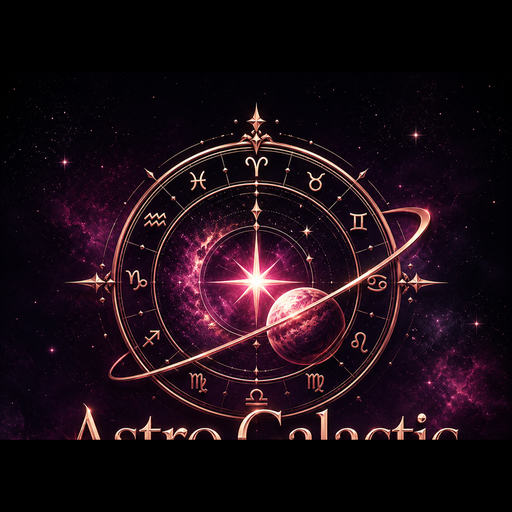
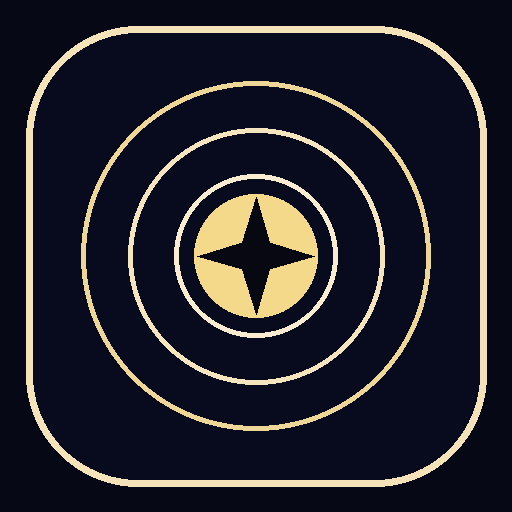
Add files via upload

diff --git a/index.html b/index.html
@@ -1,237 +1,36 @@
-<!DOCTYPE html>
+<!doctype html>
 <html lang="fr">
 <head>
 <meta charset="UTF-8">
 <meta name="viewport" content="width=device-width, initial-scale=1, viewport-fit=cover">
+<meta name="theme-color" content="#080818">
+<meta name="apple-mobile-web-app-capable" content="yes">
+<meta name="apple-mobile-web-app-status-bar-style" content="black-translucent">
 <title>Astro Galactic</title>
-<meta name="theme-color" content="#05070d">
+<meta name="description" content="Astro Galactic — horoscope quotidien, thème astral, compatibilité, numérologie et cristaux.">
 <link rel="manifest" href="/manifest.json">
-<link rel="apple-touch-icon" href="/icons/icon-192.png">
+<link rel="apple-touch-icon" href="/apple-touch-icon.png">
+<link rel="icon" href="/icon-192.png">
 <style>
-  :root{
-    --gold-bright:#f3c969;
-    --gold:#d4af37;
-    --gold-deep:#a5791b;
-    --night:#05070d;
-    --night-mid:#0d1220;
-    --night-soft:#141c30;
-    --emerald:#1f5f52;
-    --electric:#2f8fd1;
-    --text:#f5ecd2;
-    --text-dim:#9a8f72;
-  }
-  *{box-sizing:border-box;margin:0;padding:0;-webkit-tap-highlight-color:transparent;}
-  html,body{height:100%;}
-  body{
-    font-family:'Segoe UI',system-ui,-apple-system,sans-serif;
-    background:radial-gradient(ellipse at 50% 15%, var(--night-soft) 0%, var(--night-mid) 45%, var(--night) 100%);
-    color:var(--text);
-    min-height:100vh;
-    overflow-x:hidden;
-    position:relative;
-  }
-  body::before{
-    content:'';
-    position:fixed;inset:0;
-    background-image:
-      radial-gradient(1.5px 1.5px at 15% 20%, rgba(243,201,105,0.5), transparent),
-      radial-gradient(1px 1px at 80% 12%, rgba(243,201,105,0.4), transparent),
-      radial-gradient(1.5px 1.5px at 65% 75%, rgba(243,201,105,0.4), transparent),
-      radial-gradient(1px 1px at 25% 85%, rgba(243,201,105,0.3), transparent),
-      radial-gradient(1px 1px at 90% 55%, rgba(47,143,209,0.3), transparent);
-    pointer-events:none;z-index:0;
-  }
-  .screen{position:relative;z-index:1;min-height:100vh;display:flex;flex-direction:column;}
-  .hidden{display:none !important;}
-
-  /* ===== PORTAIL ===== */
-  #portalScreen{align-items:center;padding:34px 22px 30px;text-align:center;}
-
-  .brand-row{display:flex;align-items:center;justify-content:center;gap:6px;}
-  .brand{font-family:Georgia,'Times New Roman',serif;font-size:1.9rem;color:var(--gold-bright);letter-spacing:0.5px;
-    text-shadow:0 0 18px rgba(243,201,105,0.35);}
-  .crown-icon{font-size:1.1rem;transform:translateY(-10px);}
-
-  .ornament{display:flex;align-items:center;justify-content:center;gap:8px;margin:8px auto 10px;width:70%;max-width:200px;}
-  .ornament::before,.ornament::after{content:'';flex:1;height:1px;background:linear-gradient(90deg,transparent,var(--gold-deep));}
-  .ornament::after{background:linear-gradient(90deg,var(--gold-deep),transparent);}
-  .ornament span{width:5px;height:5px;border:1px solid var(--gold);transform:rotate(45deg);}
-
-  .brand-sub{color:var(--text-dim);font-size:0.85rem;margin-bottom:20px;}
-
-  .wheel-wrap{position:relative;width:280px;height:280px;margin:10px auto 22px;}
-  .wheel-wrap svg{width:100%;height:100%;overflow:visible;}
-  .zodiac-symbol{font-size:15px;fill:var(--gold-bright);font-family:Georgia,serif;text-anchor:middle;dominant-baseline:middle;}
-  .wheel-ring{fill:none;stroke:var(--gold-deep);}
-  .wheel-spoke{stroke:rgba(212,175,55,0.35);stroke-width:1;}
-  .wheel-glow{filter:drop-shadow(0 0 6px rgba(243,201,105,0.6));}
-
-  .lion-badge{
-    position:absolute;top:-18px;left:50%;transform:translateX(-50%);
-    width:56px;height:56px;border-radius:50%;
-    background:radial-gradient(circle,var(--night-soft),var(--night));
-    border:1.5px solid var(--gold);
-    display:flex;align-items:center;justify-content:center;
-    box-shadow:0 0 16px rgba(243,201,105,0.4);
-  }
-  .lion-badge .lion-emoji{font-size:1.6rem;}
-  .lion-badge .crown-mini{position:absolute;top:-11px;font-size:0.9rem;}
-
-  .portal-cta{width:100%;max-width:300px;}
-  .btn-pill{
-    position:relative;width:100%;padding:15px 20px;border:1.5px solid var(--gold);border-radius:40px;
-    background:linear-gradient(90deg,var(--gold-deep),var(--gold-bright));
-    color:var(--night);font-weight:700;font-size:1.02rem;font-family:Georgia,serif;
-    cursor:pointer;box-shadow:0 4px 20px rgba(212,175,55,0.35);
-  }
-  .btn-pill:active{transform:scale(0.97);}
-  .link-secondary{
-    display:inline-block;margin-top:16px;background:none;border:none;
-    color:var(--gold-bright);font-size:0.88rem;text-decoration:underline;cursor:pointer;
-  }
-
-  .portal-form{width:100%;max-width:300px;display:none;text-align:left;margin-top:6px;}
-  .portal-form.active{display:block;}
-  .portal-form label{display:block;font-size:0.8rem;color:var(--gold-bright);margin-bottom:6px;margin-top:14px;font-weight:600;}
-  .portal-form label:first-child{margin-top:0;}
-  input[type="date"],input[type="time"],input[type="text"]{
-    width:100%;padding:12px 14px;border-radius:10px;
-    border:1px solid rgba(212,175,55,0.35);
-    background:rgba(5,7,13,0.7);color:var(--text);font-size:1rem;
-  }
-  input::-webkit-calendar-picker-indicator{filter:invert(1) sepia(1) saturate(3) hue-rotate(10deg);}
-  .optional-tag{color:var(--text-dim);font-weight:400;font-size:0.72rem;}
-
-  /* rangée d'icônes de fonctionnalités */
-  .feature-row{display:flex;justify-content:center;gap:14px;margin-top:28px;flex-wrap:wrap;}
-  .feature-item{display:flex;flex-direction:column;align-items:center;gap:6px;width:64px;}
-  .feature-circle{
-    width:52px;height:52px;border-radius:50%;border:1.3px solid var(--gold-deep);
-    display:flex;align-items:center;justify-content:center;font-size:1.35rem;
-    background:rgba(212,175,55,0.06);
-  }
-  .feature-item.soon .feature-circle{opacity:0.4;}
-  .feature-item.soon span.feature-label{opacity:0.4;}
-  .feature-label{font-size:0.66rem;color:var(--text-dim);text-align:center;line-height:1.2;}
-
-  .footer-tag{margin-top:26px;font-size:0.72rem;color:var(--gold-deep);letter-spacing:0.5px;}
-
-  /* ===== GALAXIE (conservée, réharmonisée en gold/nuit) ===== */
-  #galaxyScreen{padding:20px 16px 40px;}
-  .galaxy-header{text-align:center;margin-bottom:8px;}
-  .galaxy-sign-emoji{font-size:2.6rem;filter:drop-shadow(0 0 8px rgba(212,175,55,0.5));}
-  .galaxy-sign-name{font-family:Georgia,serif;font-size:1.3rem;color:var(--gold-bright);margin-top:4px;}
-  .galaxy-sign-dates{font-size:0.75rem;color:var(--text-dim);}
-
-  .modules-grid{display:grid;grid-template-columns:1fr 1fr;gap:12px;margin-top:24px;}
-  .module-card{
-    background:linear-gradient(160deg,rgba(212,175,55,0.08),rgba(47,143,209,0.05));
-    border:1px solid rgba(212,175,55,0.3);
-    border-radius:16px;padding:16px 14px;
-    display:flex;flex-direction:column;align-items:flex-start;gap:6px;
-    cursor:pointer;transition:transform 0.15s ease;position:relative;overflow:hidden;
-  }
-  .module-card:active{transform:scale(0.96);}
-  .module-card.locked::after{content:'🔒';position:absolute;top:10px;right:12px;font-size:0.85rem;opacity:0.6;}
-  .module-icon{font-size:1.5rem;}
-  .module-title{font-size:0.85rem;font-weight:700;color:var(--text);}
-  .module-energy{font-size:0.7rem;color:var(--gold-bright);}
-  .module-card.oracle{grid-column:1 / -1;background:linear-gradient(120deg,rgba(47,143,209,0.15),rgba(212,175,55,0.08));border-color:rgba(47,143,209,0.45);}
-  .module-card.oracle .module-title{color:var(--electric);}
-
-  #moduleModal{position:fixed;inset:0;z-index:10;background:rgba(5,7,13,0.85);backdrop-filter:blur(4px);display:flex;align-items:flex-end;}
-  #moduleModal.hidden{display:none;}
-  .modal-sheet{width:100%;max-height:82vh;overflow-y:auto;background:linear-gradient(160deg,var(--night-soft),var(--night));border-top:1px solid rgba(212,175,55,0.4);border-radius:22px 22px 0 0;padding:22px 20px 30px;animation:slideUp 0.25s ease-out;}
-  @keyframes slideUp{from{transform:translateY(30px);opacity:0;}to{transform:translateY(0);opacity:1;}}
-  .modal-header{display:flex;justify-content:space-between;align-items:center;margin-bottom:16px;}
-  .modal-title{font-family:Georgia,serif;font-size:1.15rem;color:var(--gold-bright);}
-  .modal-close{background:none;border:none;color:var(--text-dim);font-size:1.4rem;cursor:pointer;line-height:1;}
-  .modal-body{line-height:1.65;font-size:0.95rem;white-space:pre-wrap;}
-  .loading{display:flex;align-items:center;gap:10px;color:var(--text-dim);font-size:0.9rem;}
-  .spinner{width:18px;height:18px;border-radius:50%;border:2px solid rgba(212,175,55,0.3);border-top-color:var(--gold-bright);animation:spin 0.8s linear infinite;}
-  @keyframes spin{to{transform:rotate(360deg);}}
-  .oracle-input-row{display:flex;gap:8px;margin-bottom:16px;}
-  .oracle-input-row input{flex:1;}
-  .oracle-input-row button{padding:0 18px;border:none;border-radius:10px;background:var(--electric);color:var(--night);font-weight:700;cursor:pointer;}
-  .share-btn{margin-top:18px;width:100%;padding:12px;border:none;border-radius:10px;background:rgba(212,175,55,0.15);border:1px solid rgba(212,175,55,0.4);color:var(--gold-bright);font-weight:700;font-size:0.9rem;cursor:pointer;}
+:root{--void:#070714;--night:#0E1027;--panel:#151936;--gold:#E8C56B;--gold2:#F7DEA0;--ivory:#F5F0DF;--muted:#A9A0C2;--line:rgba(232,197,107,.20);--violet:#6B4FCF;--safe-top:env(safe-area-inset-top,0px);--safe-bottom:env(safe-area-inset-bottom,0px)}
+*{box-sizing:border-box;margin:0;padding:0;-webkit-tap-highlight-color:transparent;font-variant-emoji:text}html,body{height:100%;overflow:hidden;background:#000;color:var(--ivory);font-family:Manrope,Inter,system-ui,-apple-system,Segoe UI,Roboto,Arial,sans-serif}button,input,select{font:inherit}button{border:0;background:none;color:inherit;cursor:pointer}body{display:grid;place-items:center}.app{position:relative;width:min(100vw,430px);height:100dvh;max-height:932px;overflow:hidden;background:radial-gradient(900px 560px at 50% -12%,rgba(107,79,207,.28),transparent 60%),radial-gradient(650px 440px at 85% 105%,rgba(232,197,107,.10),transparent 55%),linear-gradient(180deg,#070714 0%,#0D1028 58%,#070714 100%)}@media(min-width:720px){.app{height:min(100vh,920px);border-radius:34px;border:1px solid rgba(232,197,107,.16)}}.stars{position:absolute;inset:0;pointer-events:none;opacity:.52;background-image:radial-gradient(circle at 10% 12%,#F7DEA0 0 1px,transparent 1.6px),radial-gradient(circle at 26% 28%,#F7DEA0 0 1px,transparent 1.6px),radial-gradient(circle at 76% 12%,#F7DEA0 0 1px,transparent 1.6px),radial-gradient(circle at 90% 35%,#F7DEA0 0 1px,transparent 1.6px),radial-gradient(circle at 15% 60%,#F7DEA0 0 1px,transparent 1.6px),radial-gradient(circle at 48% 72%,#F7DEA0 0 1px,transparent 1.6px),radial-gradient(circle at 83% 84%,#F7DEA0 0 1px,transparent 1.6px)}.screen{position:absolute;inset:0;display:none;overflow:hidden;padding:calc(14px + var(--safe-top)) 18px calc(14px + var(--safe-bottom))}.screen.active{display:flex;flex-direction:column}.brand{flex-shrink:0;text-align:center;display:flex;flex-direction:column;align-items:center;gap:5px}.brand .mark{font-size:10px;letter-spacing:.45em;text-transform:uppercase;color:var(--gold);font-weight:800;padding-left:.45em}.brand h1{font-family:Georgia,serif;font-weight:400;font-size:clamp(36px,11vw,52px);line-height:.92;color:var(--ivory);letter-spacing:.01em}.brand h1 em{font-style:italic;color:var(--gold2)}.portal{justify-content:center;gap:clamp(12px,2.2vh,23px)}.portal-top{display:flex;flex-direction:column;align-items:center;gap:clamp(8px,1.5vh,16px)}.wheel{position:relative;width:min(55vw,25vh,230px);aspect-ratio:1;display:grid;place-items:center}.wheel svg{position:absolute;inset:0;width:100%;height:100%}.ringText{font-family:Georgia,serif;fill:var(--gold);font-size:10px}.ringText2{font-family:Georgia,serif;fill:rgba(247,222,160,.68);font-size:7px}.core{width:38%;aspect-ratio:1;border-radius:50%;display:grid;place-items:center;color:var(--gold2);font-family:Georgia,serif;font-size:clamp(27px,4.4vh,41px);background:radial-gradient(circle at 35% 30%,rgba(247,222,160,.36),rgba(107,79,207,.16) 56%,rgba(255,255,255,.02) 72%);border:1px solid var(--line);box-shadow:0 0 60px rgba(107,79,207,.35), inset 0 0 30px rgba(247,222,160,.10)}.tagline{max-width:29ch;text-align:center;font-family:Georgia,serif;font-size:clamp(15px,2vh,18px);font-style:italic;color:var(--muted);line-height:1.28}.signBox{flex-shrink:0;background:rgba(14,16,39,.82);border:1px solid var(--line);border-radius:22px;padding:clamp(10px,1.8vh,17px) 13px}.signBox .label{display:block;text-align:center;font-size:10px;letter-spacing:.34em;text-transform:uppercase;color:var(--muted);margin-bottom:clamp(7px,1.2vh,12px)}.grid{display:grid;grid-template-columns:repeat(4,1fr);gap:clamp(4px,.7vh,7px)}.zbtn{min-height:clamp(47px,7vh,62px);border-radius:14px;border:1px solid transparent;color:var(--ivory);display:flex;flex-direction:column;align-items:center;justify-content:center;gap:2px}.zbtn .g{font-family:Georgia,serif;font-size:clamp(18px,2.8vh,24px);color:var(--gold);line-height:1}.zbtn .n{font-size:clamp(9px,1.25vh,10.5px);color:var(--muted);line-height:1}.zbtn.sel{background:linear-gradient(160deg,rgba(107,79,207,.34),rgba(232,197,107,.12));border-color:rgba(232,197,107,.70);box-shadow:0 0 24px rgba(107,79,207,.24)}.zbtn.sel .n{color:var(--ivory)}.cta{flex-shrink:0;width:100%;min-height:clamp(50px,7vh,62px);border-radius:999px;background:linear-gradient(100deg,var(--gold),var(--gold2));color:#0A0713;font-weight:900;font-size:15px;letter-spacing:.02em;box-shadow:0 13px 30px -9px rgba(232,197,107,.55)}.cta:disabled{background:transparent;border:1px solid rgba(232,197,107,.42);color:rgba(232,197,107,.65);box-shadow:none}.topbar{flex-shrink:0;display:flex;align-items:center;justify-content:space-between;gap:12px;margin-bottom:13px}.profile{display:flex;align-items:center;gap:11px}.orb{width:46px;height:46px;border-radius:50%;display:grid;place-items:center;font-family:Georgia,serif;font-size:24px;color:var(--gold2);background:radial-gradient(circle at 35% 30%,rgba(247,222,160,.32),rgba(107,79,207,.19));border:1px solid var(--line)}.profile small{display:block;font-size:10px;letter-spacing:.27em;text-transform:uppercase;color:var(--muted)}.profile b{display:block;font-family:Georgia,serif;font-size:22px;font-weight:500}.back{color:var(--muted);font-size:13px}.modules{flex:1;min-height:0;display:flex;flex-direction:column;gap:11px}.mod{min-height:76px;width:100%;border:1px solid var(--line);border-radius:20px;background:rgba(14,16,39,.82);display:flex;align-items:center;gap:14px;padding:14px;text-align:left}.mod .ico{flex:none;width:44px;height:44px;border-radius:14px;display:grid;place-items:center;font-family:Georgia,serif;font-size:23px;color:var(--gold);background:linear-gradient(150deg,rgba(107,79,207,.24),rgba(232,197,107,.08));border:1px solid var(--line)}.mod .txt{flex:1}.mod h3{font-family:Georgia,serif;font-weight:500;font-size:21px;line-height:1.05}.mod p{color:var(--muted);font-size:12.5px;line-height:1.35;margin-top:3px}.mod .arrow{flex:none;color:var(--muted);font-size:21px}.premium{flex-shrink:0;min-height:48px;border-radius:999px;border:1px solid var(--line);color:var(--gold2);background:rgba(14,16,39,.72);font-size:14px;font-weight:700}.sheetWrap{position:absolute;inset:0;background:rgba(5,4,13,.74);backdrop-filter:blur(8px);display:none;align-items:flex-end;z-index:20}.sheetWrap.open{display:flex}.sheet{width:100%;max-height:88dvh;overflow:auto;background:linear-gradient(180deg,var(--panel),var(--night));border:1px solid var(--line);border-bottom:0;border-radius:28px 28px 0 0;padding:14px 22px calc(24px + var(--safe-bottom))}.grab{width:42px;height:4px;border-radius:99px;background:var(--line);margin:6px auto 18px}.sheet .eyebrow{text-align:center;font-size:10px;letter-spacing:.35em;text-transform:uppercase;color:var(--gold)}.sheet h2{margin:6px 0 4px;text-align:center;font-family:Georgia,serif;font-weight:400;font-size:32px}.sheet .sub{text-align:center;color:var(--muted);font-size:13px;margin-bottom:18px}.reading{border:1px solid var(--line);border-radius:18px;background:var(--void);padding:18px;font-family:Georgia,serif;font-size:18px;line-height:1.58;color:var(--ivory)}.facets{display:grid;grid-template-columns:repeat(3,1fr);gap:9px;margin-top:13px}.facet{border:1px solid var(--line);border-radius:14px;background:var(--void);text-align:center;padding:11px 6px}.facet small{display:block;color:var(--muted);font-size:9px;letter-spacing:.20em;text-transform:uppercase;margin-bottom:5px}.facet b{color:var(--gold);font-family:Georgia,serif;font-size:18px}.closeBtn{margin-top:14px}@media(max-height:760px){.screen{padding:calc(8px + var(--safe-top)) 14px calc(8px + var(--safe-bottom))}.portal{gap:8px}.brand .mark{font-size:9px}.brand h1{font-size:34px}.portal-top{gap:7px}.wheel{width:min(48vw,20vh,185px)}.tagline{font-size:13px}.signBox{padding:9px 11px;border-radius:18px}.grid{gap:3px}.zbtn{min-height:41px}.zbtn .g{font-size:17px}.zbtn .n{font-size:8.5px}.cta{min-height:46px}.modules{gap:8px}.mod{min-height:67px;padding:11px}.mod h3{font-size:18px}.mod p{font-size:11.5px}}
 </style>
 </head>
 <body>
-
-<!-- ===== ÉCRAN PORTAIL ===== -->
-<div class="screen" id="portalScreen">
-  <div class="brand-row"><span class="crown-icon">👑</span><span class="brand">Astro Galactic</span></div>
-  <div class="ornament"><span></span></div>
-  <div class="brand-sub">Entrez dans votre univers astral</div>
-
-  <div class="wheel-wrap" id="wheelWrap">
-    <div class="lion-badge"><span class="crown-mini">👑</span><span class="lion-emoji">🦁</span></div>
-    <svg viewBox="0 0 280 280" class="wheel-glow" id="portalSvg">
-      <circle class="wheel-ring" cx="140" cy="140" r="128" stroke-width="1.5"></circle>
-      <circle class="wheel-ring" cx="140" cy="140" r="105" stroke-width="1"></circle>
-      <circle class="wheel-ring" cx="140" cy="140" r="60" stroke-width="1"></circle>
-      <g id="spokes"></g>
-      <g id="symbols"></g>
-      <circle cx="140" cy="140" r="4" fill="#f3c969"></circle>
-    </svg>
-  </div>
-
-  <div class="portal-cta" id="portalIntro">
-    <button class="btn-pill" id="startBtn">Ouvrir mon ciel</button>
-    <button class="link-secondary" id="knowSignBtn">Je connais déjà mon signe</button>
-  </div>
-
-  <form class="portal-form" id="portalForm">
-    <label for="birthDate">Date de naissance</label>
-    <input type="date" id="birthDate" required>
-    <label for="birthTime">Heure de naissance <span class="optional-tag">(optionnel)</span></label>
-    <input type="time" id="birthTime">
-    <label for="birthPlace">Lieu de naissance <span class="optional-tag">(optionnel)</span></label>
-    <input type="text" id="birthPlace" placeholder="Ville, Pays">
-    <button type="submit" class="btn-pill" style="margin-top:18px;">Franchir le portail ✦</button>
-  </form>
-
-  <div class="feature-row">
-    <div class="feature-item"><div class="feature-circle">🌙</div><span class="feature-label">Horoscope<br>du jour</span></div>
-    <div class="feature-item"><div class="feature-circle">🗺️</div><span class="feature-label">Thème<br>astral</span></div>
-    <div class="feature-item"><div class="feature-circle">💞</div><span class="feature-label">Compatibilité</span></div>
-    <div class="feature-item soon"><div class="feature-circle">🔢</div><span class="feature-label">Numérologie<br>(bientôt)</span></div>
-    <div class="feature-item soon"><div class="feature-circle">💎</div><span class="feature-label">Cristaux<br>(bientôt)</span></div>
-  </div>
-
-  <div class="ornament" style="margin-top:26px;"><span></span></div>
-  <div class="footer-tag">✦ Votre guide cosmique personnel ✦</div>
-</div>
-
-<!-- ===== GALAXIE PERSONNELLE ===== -->
-<div class="screen hidden" id="galaxyScreen">
-  <div class="galaxy-header">
-    <div class="galaxy-sign-emoji" id="gSignEmoji">♈</div>
-    <div class="galaxy-sign-name" id="gSignName">—</div>
-    <div class="galaxy-sign-dates" id="gSignDates">—</div>
-  </div>
-  <div class="modules-grid">
-    <div class="module-card" data-module="horoscope"><div class="module-icon">🌙</div><div class="module-title">Horoscope du jour</div><div class="module-energy" id="energyHoroscope">—</div></div>
-    <div class="module-card" data-module="amour"><div class="module-icon">💛</div><div class="module-title">Amour</div><div class="module-energy" id="energyAmour">—</div></div>
-    <div class="module-card" data-module="argent"><div class="module-icon">✦</div><div class="module-title">Argent</div><div class="module-energy" id="energyArgent">—</div></div>
-    <div class="module-card" data-module="energie"><div class="module-icon">⚡</div><div class="module-title">Énergie</div><div class="module-energy" id="energyEnergie">—</div></div>
-    <div class="module-card locked" data-module="theme"><div class="module-icon">🗺️</div><div class="module-title">Thème astral complet</div><div class="module-energy">Premium</div></div>
-    <div class="module-card locked" data-module="compatibilite"><div class="module-icon">💞</div><div class="module-title">Compatibilité</div><div class="module-energy">Premium</div></div>
-    <div class="module-card oracle" data-module="oracle"><div class="module-icon">🔮</div><div class="module-title">Oracle IA — Pose ta question à l'univers</div></div>
-  </div>
-</div>
-
-<!-- ===== MODAL ===== -->
-<div id="moduleModal" class="hidden">
-  <div class="modal-sheet">
-    <div class="modal-header"><div class="modal-title" id="modalTitle">—</div><button class="modal-close" id="modalClose">✕</button></div>
-    <div id="modalOracleInput" class="oracle-input-row hidden"><input type="text" id="oracleQuestion" placeholder="Ex: Dois-je lui écrire ?"><button id="oracleAskBtn">Demander</button></div>
-    <div class="modal-body" id="modalBody"></div>
-    <button class="share-btn hidden" id="shareBtn">Partager ma carte ✦</button>
-  </div>
-</div>
-<canvas id="shareCanvas" width="1080" height="1920" class="hidden"></canvas>
-
-<script src="/app.js"></script>
-</body>
-</html>
+<main class="app"><div class="stars"></div>
+<section id="portal" class="screen portal active"><div class="portal-top"><div class="brand"><span class="mark">Horoscope</span><h1>Astro <em>Galactic</em></h1></div><div class="wheel"><svg viewBox="0 0 100 100" aria-hidden="true"><circle cx="50" cy="50" r="47" fill="none" stroke="rgba(232,197,107,.18)" stroke-width=".5"/><circle cx="50" cy="50" r="36" fill="none" stroke="rgba(232,197,107,.13)" stroke-width=".5"/><circle cx="50" cy="50" r="25" fill="none" stroke="rgba(107,79,207,.22)" stroke-width=".5"/><g id="outerRing"></g><g id="innerRing"></g></svg><div class="core" id="coreGlyph">✦</div></div><p class="tagline">Le ciel a quelque chose à vous dire aujourd’hui.</p></div><div class="signBox"><span class="label">Choisissez votre signe</span><div class="grid" id="signGrid"></div></div><button class="cta" id="enterBtn" disabled>Ouvrir mon ciel</button></section>
+<section id="galaxy" class="screen"><div class="topbar"><div class="profile"><div class="orb" id="youGlyph">✦</div><div><small id="youDates">—</small><b id="youName">—</b></div></div><button class="back" onclick="goPortal()">Changer</button></div><div class="modules" id="modules"></div><button class="premium" onclick="openPremium()">✦ Astro Galactic Premium</button></section>
+<div class="sheetWrap" id="sheetWrap" onclick="if(event.target===this)closeSheet()"><div class="sheet" id="sheet"></div></div></main>
+<script>
+const SIGNS=[{k:'belier',n:'Bélier',g:'♈︎',d:'21 mar – 19 avr'},{k:'taureau',n:'Taureau',g:'♉︎',d:'20 avr – 20 mai'},{k:'gemeaux',n:'Gémeaux',g:'♊︎',d:'21 mai – 20 juin'},{k:'cancer',n:'Cancer',g:'♋︎',d:'21 juin – 22 juil'},{k:'lion',n:'Lion',g:'♌︎',d:'23 juil – 22 août'},{k:'vierge',n:'Vierge',g:'♍︎',d:'23 août – 22 sep'},{k:'balance',n:'Balance',g:'♎︎',d:'23 sep – 22 oct'},{k:'scorpion',n:'Scorpion',g:'♏︎',d:'23 oct – 21 nov'},{k:'sagittaire',n:'Sagittaire',g:'♐︎',d:'22 nov – 21 déc'},{k:'capricorne',n:'Capricorne',g:'♑︎',d:'22 déc – 19 jan'},{k:'verseau',n:'Verseau',g:'♒︎',d:'20 jan – 18 fév'},{k:'poissons',n:'Poissons',g:'♓︎',d:'19 fév – 20 mar'}];
+const MODULES=[{id:'daily',ico:'☀︎',title:'Message du jour',desc:'Votre guidance quotidienne, claire et courte.'},{id:'theme',ico:'✦',title:'Thème astral',desc:'Votre portrait céleste personnel.'},{id:'compat',ico:'♥',title:'Compatibilité',desc:'Affinité entre deux signes.'},{id:'numbers',ico:'7',title:'Numérologie',desc:'Nombre, énergie et intention du jour.'},{id:'crystals',ico:'◇',title:'Cristaux',desc:'Pierre, couleur et rituel rapide.'}];
+let current=null;const $=s=>document.querySelector(s);
+function buildWheel(){const outer=$('#outerRing'),inner=$('#innerRing');SIGNS.forEach((s,i)=>{const a=(i/12)*Math.PI*2-Math.PI/2;const x=50+43*Math.cos(a),y=50+43*Math.sin(a);outer.innerHTML+=`<text class="ringText" x="${x.toFixed(2)}" y="${y.toFixed(2)}" text-anchor="middle" dominant-baseline="middle">${s.g}</text>`;const a2=((i+.5)/12)*Math.PI*2-Math.PI/2;const x2=50+32*Math.cos(a2),y2=50+32*Math.sin(a2);inner.innerHTML+=`<text class="ringText2" x="${x2.toFixed(2)}" y="${y2.toFixed(2)}" text-anchor="middle" dominant-baseline="middle">✦</text>`})}
+function buildGrid(){$('#signGrid').innerHTML=SIGNS.map(s=>`<button class="zbtn" data-k="${s.k}" onclick="selectSign('${s.k}')"><span class="g">${s.g}</span><span class="n">${s.n}</span></button>`).join('')}
+function selectSign(k){current=SIGNS.find(s=>s.k===k);document.querySelectorAll('.zbtn').forEach(b=>b.classList.toggle('sel',b.dataset.k===k));$('#coreGlyph').textContent=current.g;$('#enterBtn').disabled=false;$('#enterBtn').textContent='Ouvrir le ciel du '+current.n;localStorage.setItem('astro-galactic-sign',k)}
+function show(id){document.querySelectorAll('.screen').forEach(s=>s.classList.remove('active'));$('#'+id).classList.add('active')}function enterGalaxy(){if(!current)return;$('#youGlyph').textContent=current.g;$('#youName').textContent=current.n;$('#youDates').textContent=current.d;$('#modules').innerHTML=MODULES.map(m=>`<button class="mod" onclick="openModule('${m.id}')"><span class="ico">${m.ico}</span><span class="txt"><h3>${m.title}</h3><p>${m.desc}</p></span><span class="arrow">→</span></button>`).join('');show('galaxy')}function goPortal(){show('portal')}
+function openSheet(html){$('#sheet').innerHTML='<div class="grab"></div>'+html;$('#sheetWrap').classList.add('open')}function closeSheet(){$('#sheetWrap').classList.remove('open')}function today(){return new Date().toLocaleDateString('fr-FR',{weekday:'long',day:'numeric',month:'long'})}
+function openModule(id){if(!current)return;const data={daily:{t:'Message du jour',s:'Votre guidance cosmique',p:'Le ciel vous invite à ralentir pour mieux viser. Une action simple, posée avec calme, peut remettre votre journée dans le bon axe.',f:['Amour 87','Chance 72','Humeur 90']},theme:{t:'Thème astral',s:'Portrait céleste',p:'Votre signe révèle votre manière de rayonner. Cette lecture ouvre la porte vers votre énergie profonde, vos forces et votre direction intérieure.',f:['Soleil '+current.n,'Force Clarté','Élément Feu']},compat:{t:'Compatibilité',s:'Affinité du jour',p:'Une connexion douce se renforce quand chacun garde sa vérité. Cherchez la simplicité, la présence et les mots justes.',f:['Affinité Taureau','Vibration 87','Conseil Écouter']},numbers:{t:'Numérologie',s:'Nombre du jour',p:'Le nombre 7 vous invite à observer avant d’agir. La bonne décision vient après un moment de silence.',f:['Nombre 7','Couleur Or','Intention Calme']},crystals:{t:'Cristaux',s:'Pierre du jour',p:'La citrine solaire accompagne la clarté, la confiance et le passage à l’action. Gardez une intention simple.',f:['Pierre Citrine','Couleur Or','Rituel 60 s']}}[id];openSheet(`<div class="eyebrow">${today()}</div><h2>${current.g} ${data.t}</h2><p class="sub">${data.s}</p><div class="reading">${data.p}</div><div class="facets">${data.f.map(x=>{const [a,...b]=x.split(' ');return `<div class="facet"><small>${a}</small><b>${b.join(' ')}</b></div>`}).join('')}</div><button class="cta closeBtn" onclick="closeSheet()">Fermer</button>`)}
+function openPremium(){openSheet(`<div class="eyebrow">Premium</div><h2>Astro Galactic complet</h2><p class="sub">Débloquez les lectures longues, les prévisions mensuelles et les compatibilités avancées.</p><div class="reading">La version premium sera connectée plus tard à Gumroad ou Stripe. Pour l’instant, cette page présente clairement l’offre sans casser l’expérience.</div><button class="cta closeBtn" onclick="closeSheet()">Compris</button>`)}
+buildWheel();buildGrid();$('#enterBtn').addEventListener('click',enterGalaxy);const last=localStorage.getItem('astro-galactic-sign');if(last)selectSign(last);if('serviceWorker'in navigator){navigator.serviceWorker.register('/sw.js').catch(()=>{})}
+</script></body></html>

diff --git a/sw.js b/sw.js
@@ -1,25 +1,5 @@
-const CACHE_NAME = "astro-galactic-v2";
-const STATIC_ASSETS = ["/", "/index.html", "/app.js", "/manifest.json"];
-
-self.addEventListener("install", (event) => {
-  event.waitUntil(
-    caches.open(CACHE_NAME).then((cache) => cache.addAll(STATIC_ASSETS))
-  );
-  self.skipWaiting();
-});
-
-self.addEventListener("activate", (event) => {
-  event.waitUntil(
-    caches.keys().then((keys) =>
-      Promise.all(keys.filter((k) => k !== CACHE_NAME).map((k) => caches.delete(k)))
-    )
-  );
-  self.clients.claim();
-});
-
-self.addEventListener("fetch", (event) => {
-  if (event.request.url.includes("/api/")) return;
-  event.respondWith(
-    caches.match(event.request).then((cached) => cached || fetch(event.request))
-  );
-});
+const CACHE_NAME="astro-galactic-v8-portal-ux";
+const ASSETS=["/","/index.html","/manifest.json","/icon-192.png","/icon-512.png","/apple-touch-icon.png"];
+self.addEventListener("install",e=>{self.skipWaiting();e.waitUntil(caches.open(CACHE_NAME).then(c=>Promise.allSettled(ASSETS.map(a=>c.add(a)))));});
+self.addEventListener("activate",e=>{e.waitUntil(caches.keys().then(keys=>Promise.all(keys.filter(k=>k!==CACHE_NAME).map(k=>caches.delete(k)))).then(()=>self.clients.claim()));});
+self.addEventListener("fetch",e=>{if(e.request.method!=="GET")return;e.respondWith(caches.match(e.request).then(c=>c||fetch(e.request).catch(()=>caches.match("/index.html"))));});

diff --git a/README.md b/README.md
@@ -1,0 +1,3 @@
+# Astro Galactic V8 Portal UX
+
+Accueil portail sans scroll, choix du signe, modules après entrée.